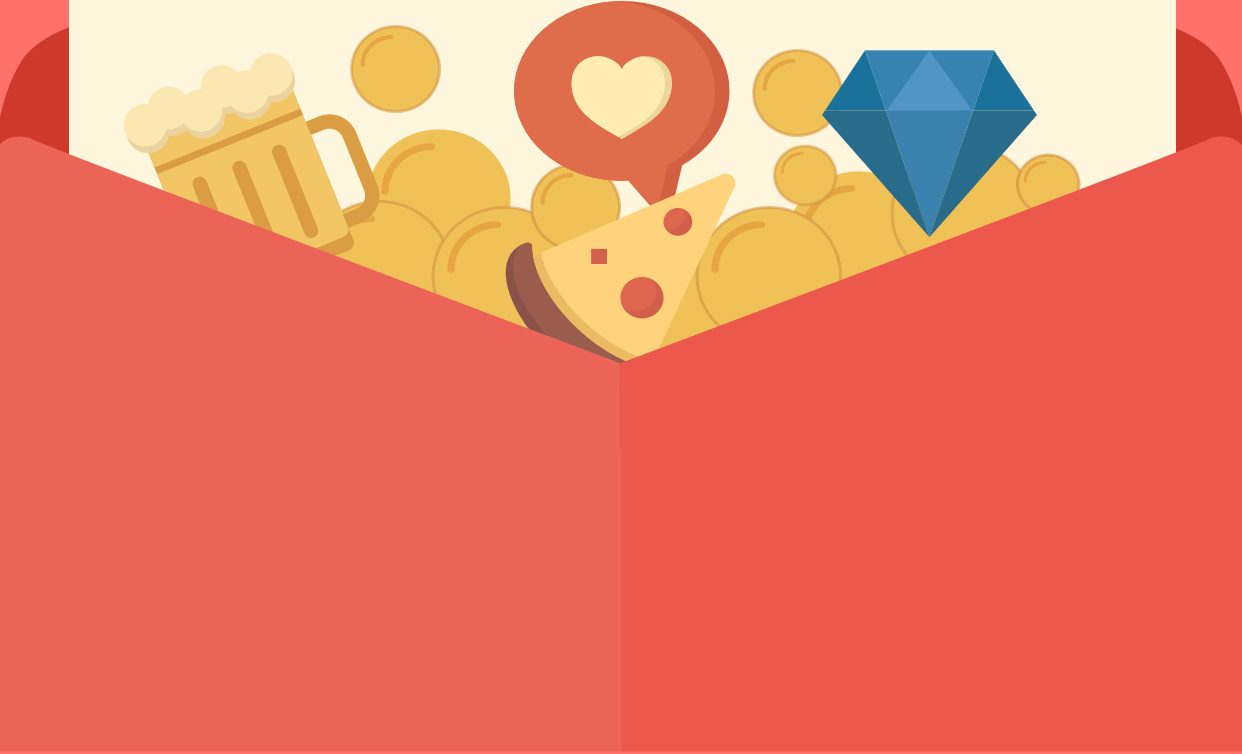
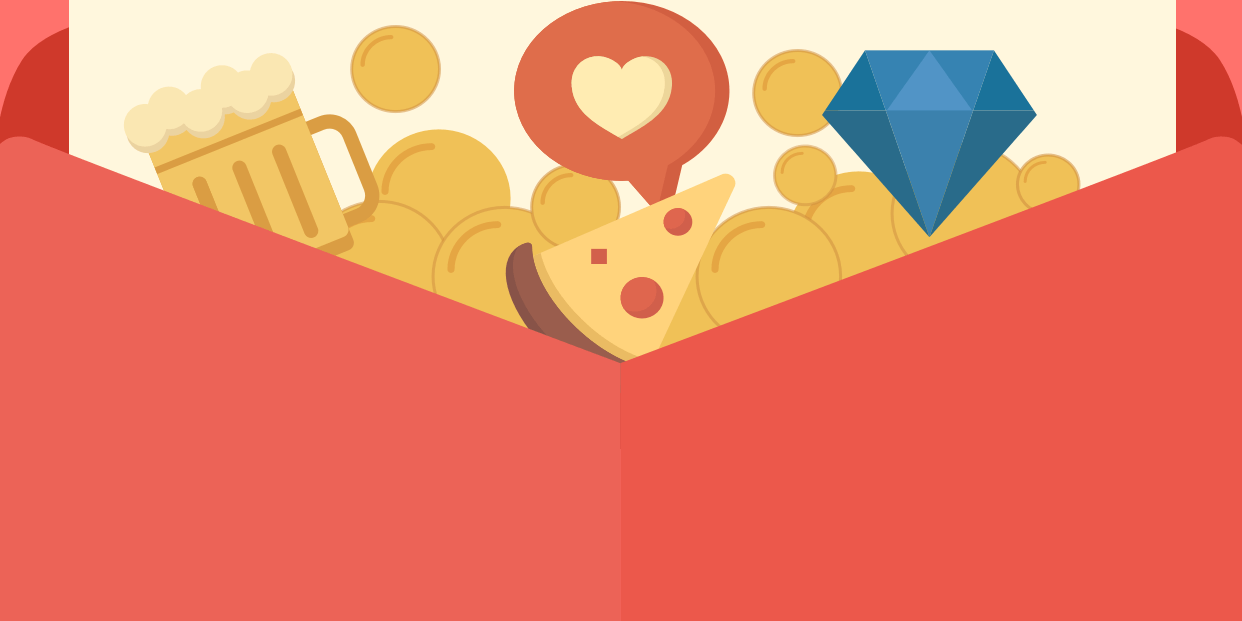
快速提交

diff --git a/dist/css/hongbao_all_v2.2.css b/dist/css/hongbao_all_v2.2.css
@@ -425,6 +425,7 @@ table {
   -webkit-justify-content: center;
       -ms-flex-pack: center;
           justify-content: center;
+  z-index: 1;
 }
 .yxzl_body .hbInner > * {
   display: block;
@@ -448,7 +449,20 @@ table {
   background-color: #FFD087;
   color: #F15858;
 }
+.yxzl_body .bottomBg.paddingPopBox {
+  padding-top: 50%;
+}
+.yxzl_body .bottomBg img {
+  display: block;
+  width: 100%;
+  height: 100%;
+}
 /* 媒体查询 begin */
+@media screen and (max-width: 320px) {
+  .yxzl_body .hbInner > a:nth-of-type(2) {
+    margin-top: 20px;
+  }
+}
 /* 媒体查询 end */
 /* 购买记录私有css文件 */
 .zcdyh_body {

diff --git a/src/less/yingxiaozhuli.less b/src/less/yingxiaozhuli.less
@@ -38,6 +38,7 @@
       box-sizing: border-box;
       .display_box(column);
       justify-content: center;
+      z-index: 1;
     }
     >a{
       &{
@@ -61,12 +62,28 @@
       }
     }
   }
+  .bottomBg{
+    &.paddingPopBox{
+      padding-top:50%;
+    }
+    img{
+      display: block;
+      width:100%;
+      height: 100%;
+    }
+  }
 }
 
 /* 媒体查询 begin */
 @media screen and @iphone4Query {
   .yxzl_body{
-    
+    .hbInner{
+      >a{
+        &:nth-of-type(2){
+          margin-top:20px;
+        }
+      }
+    }
   }
 }
 /* 媒体查询 end */

diff --git a/dist/yingxiaozhuli.html b/dist/yingxiaozhuli.html
@@ -21,8 +21,10 @@
             <a href="javascript:;" class="quan">购买投资券</a>
         </div>
     </div>
-    <div class="bottomBg">
-        <img src="images/yxzl_bottom_bg.png"/>
+    <div class="bottomBg paddingPopBox">
+        <div class="paddingPopInner">
+            <img src="images/yxzl_bottom_bg.png"/>
+        </div>
     </div>
 </div>
 </body>
